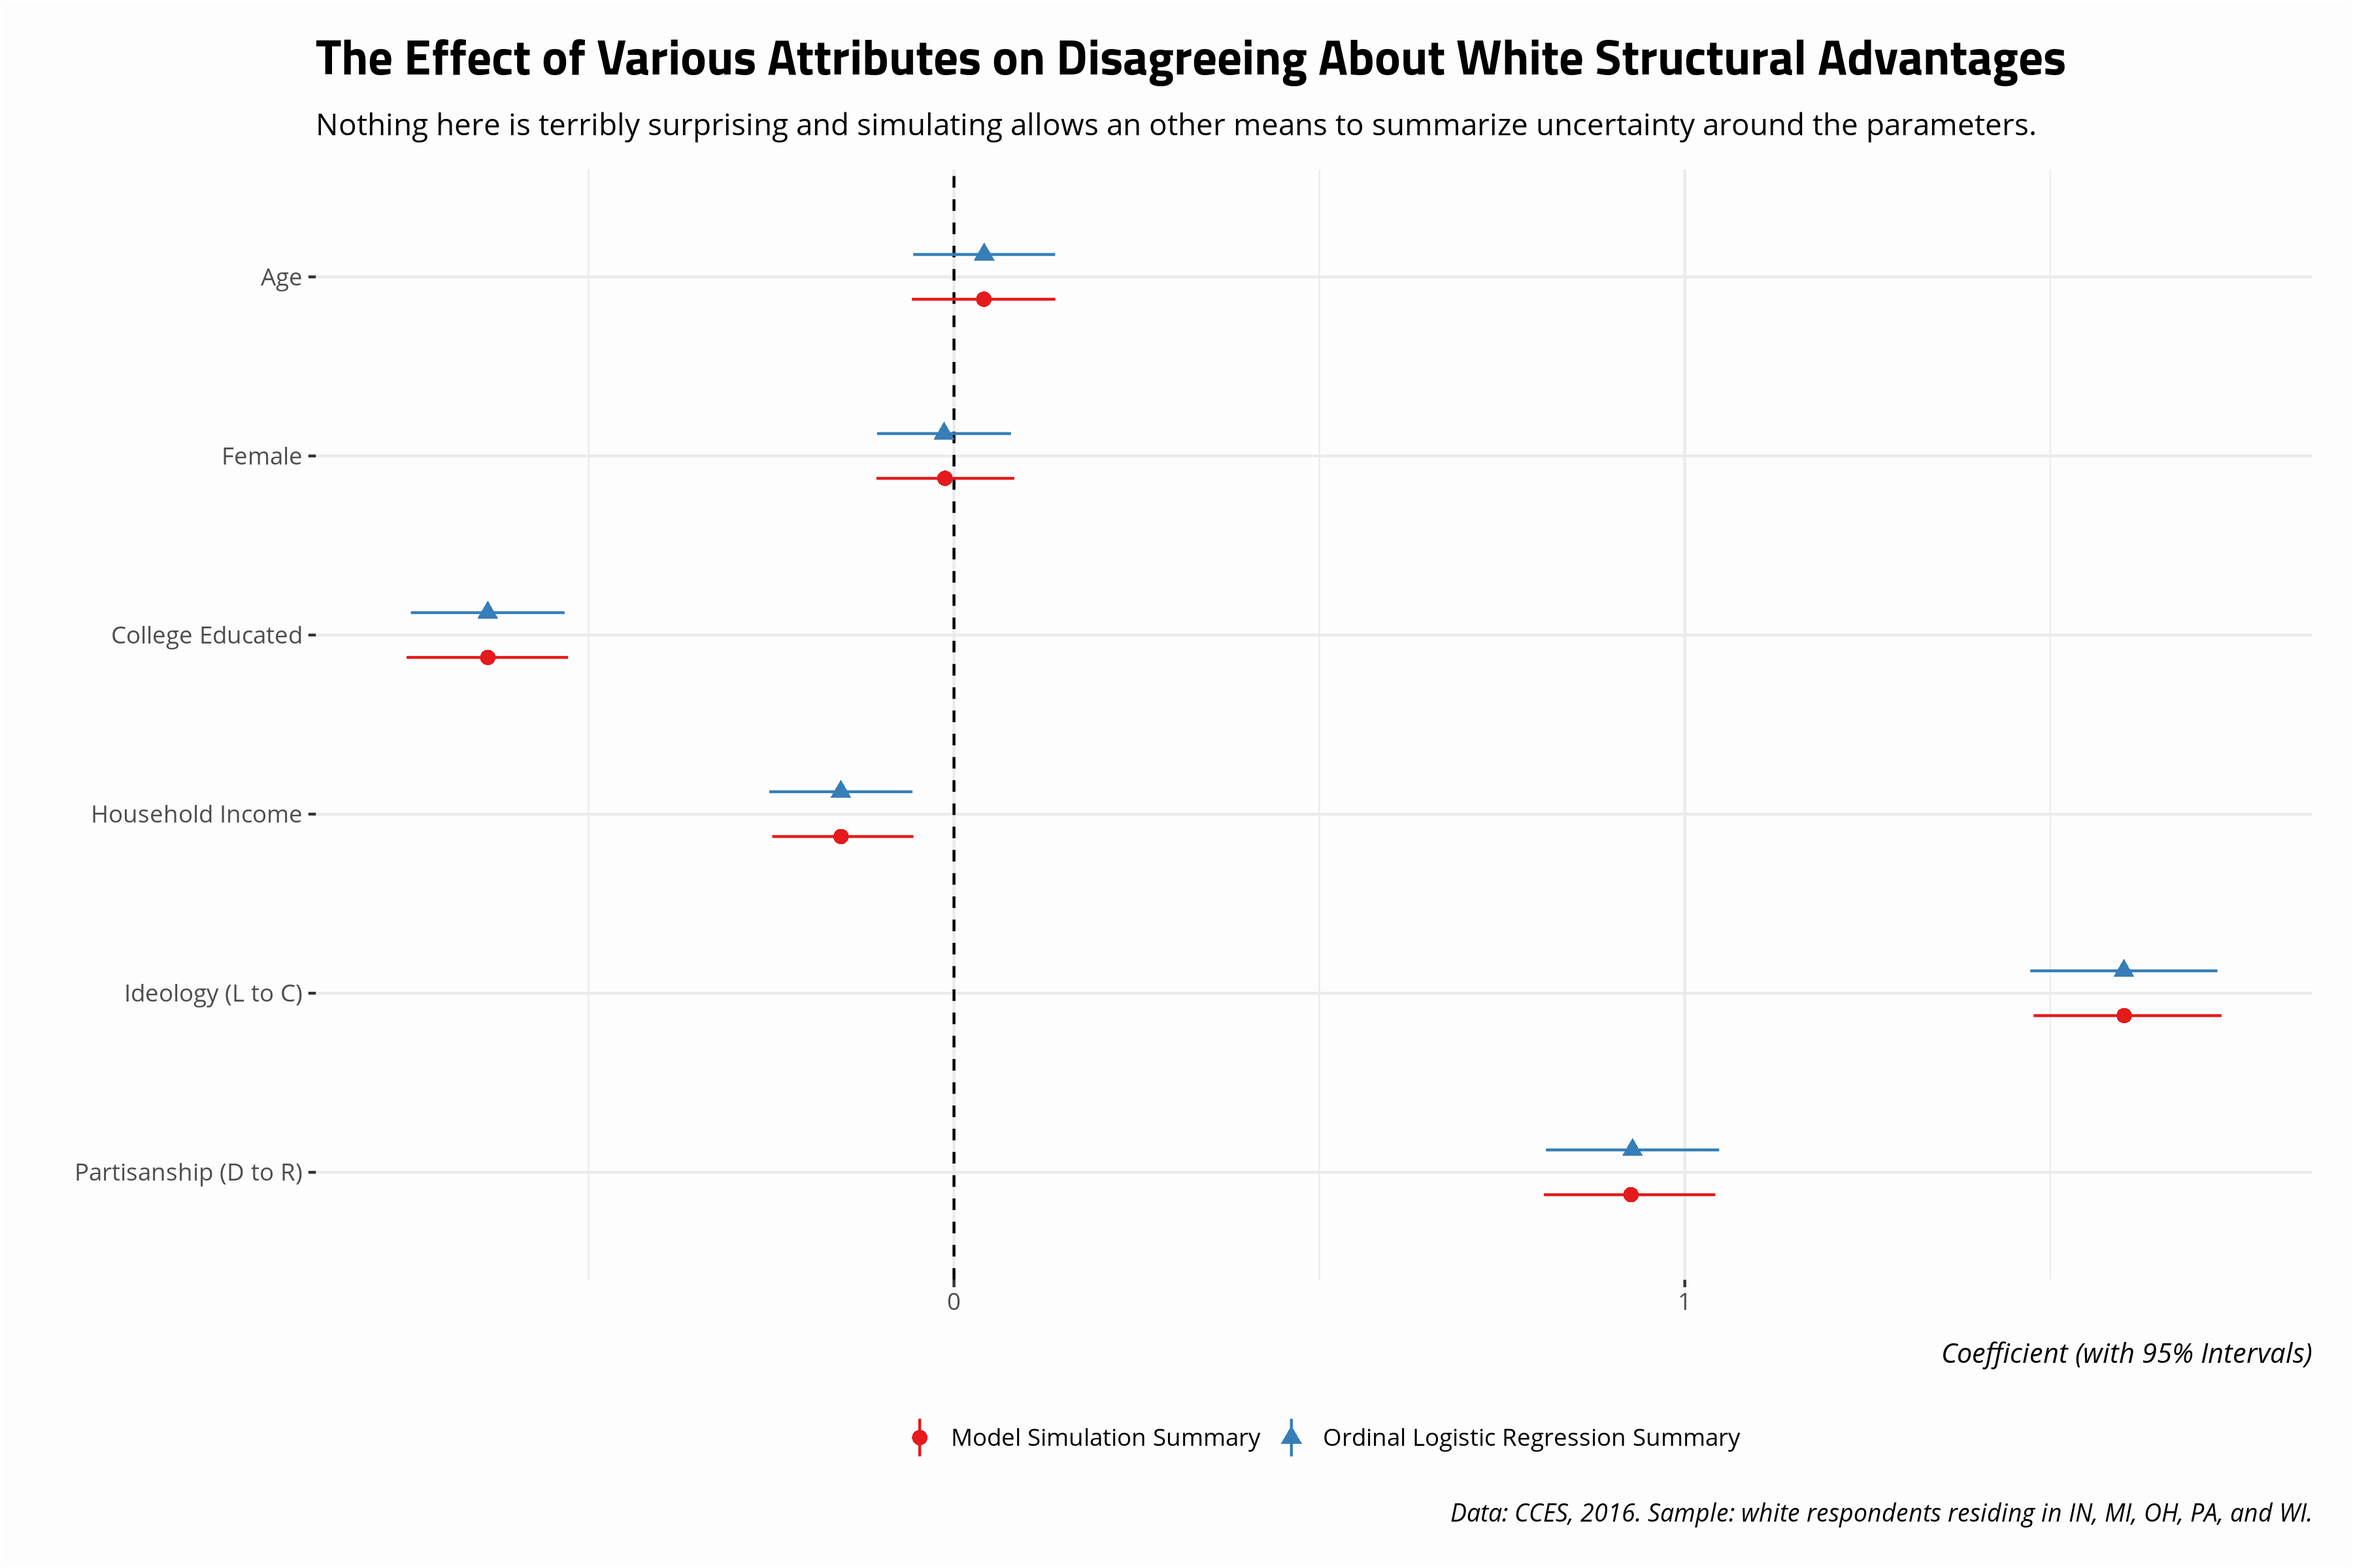
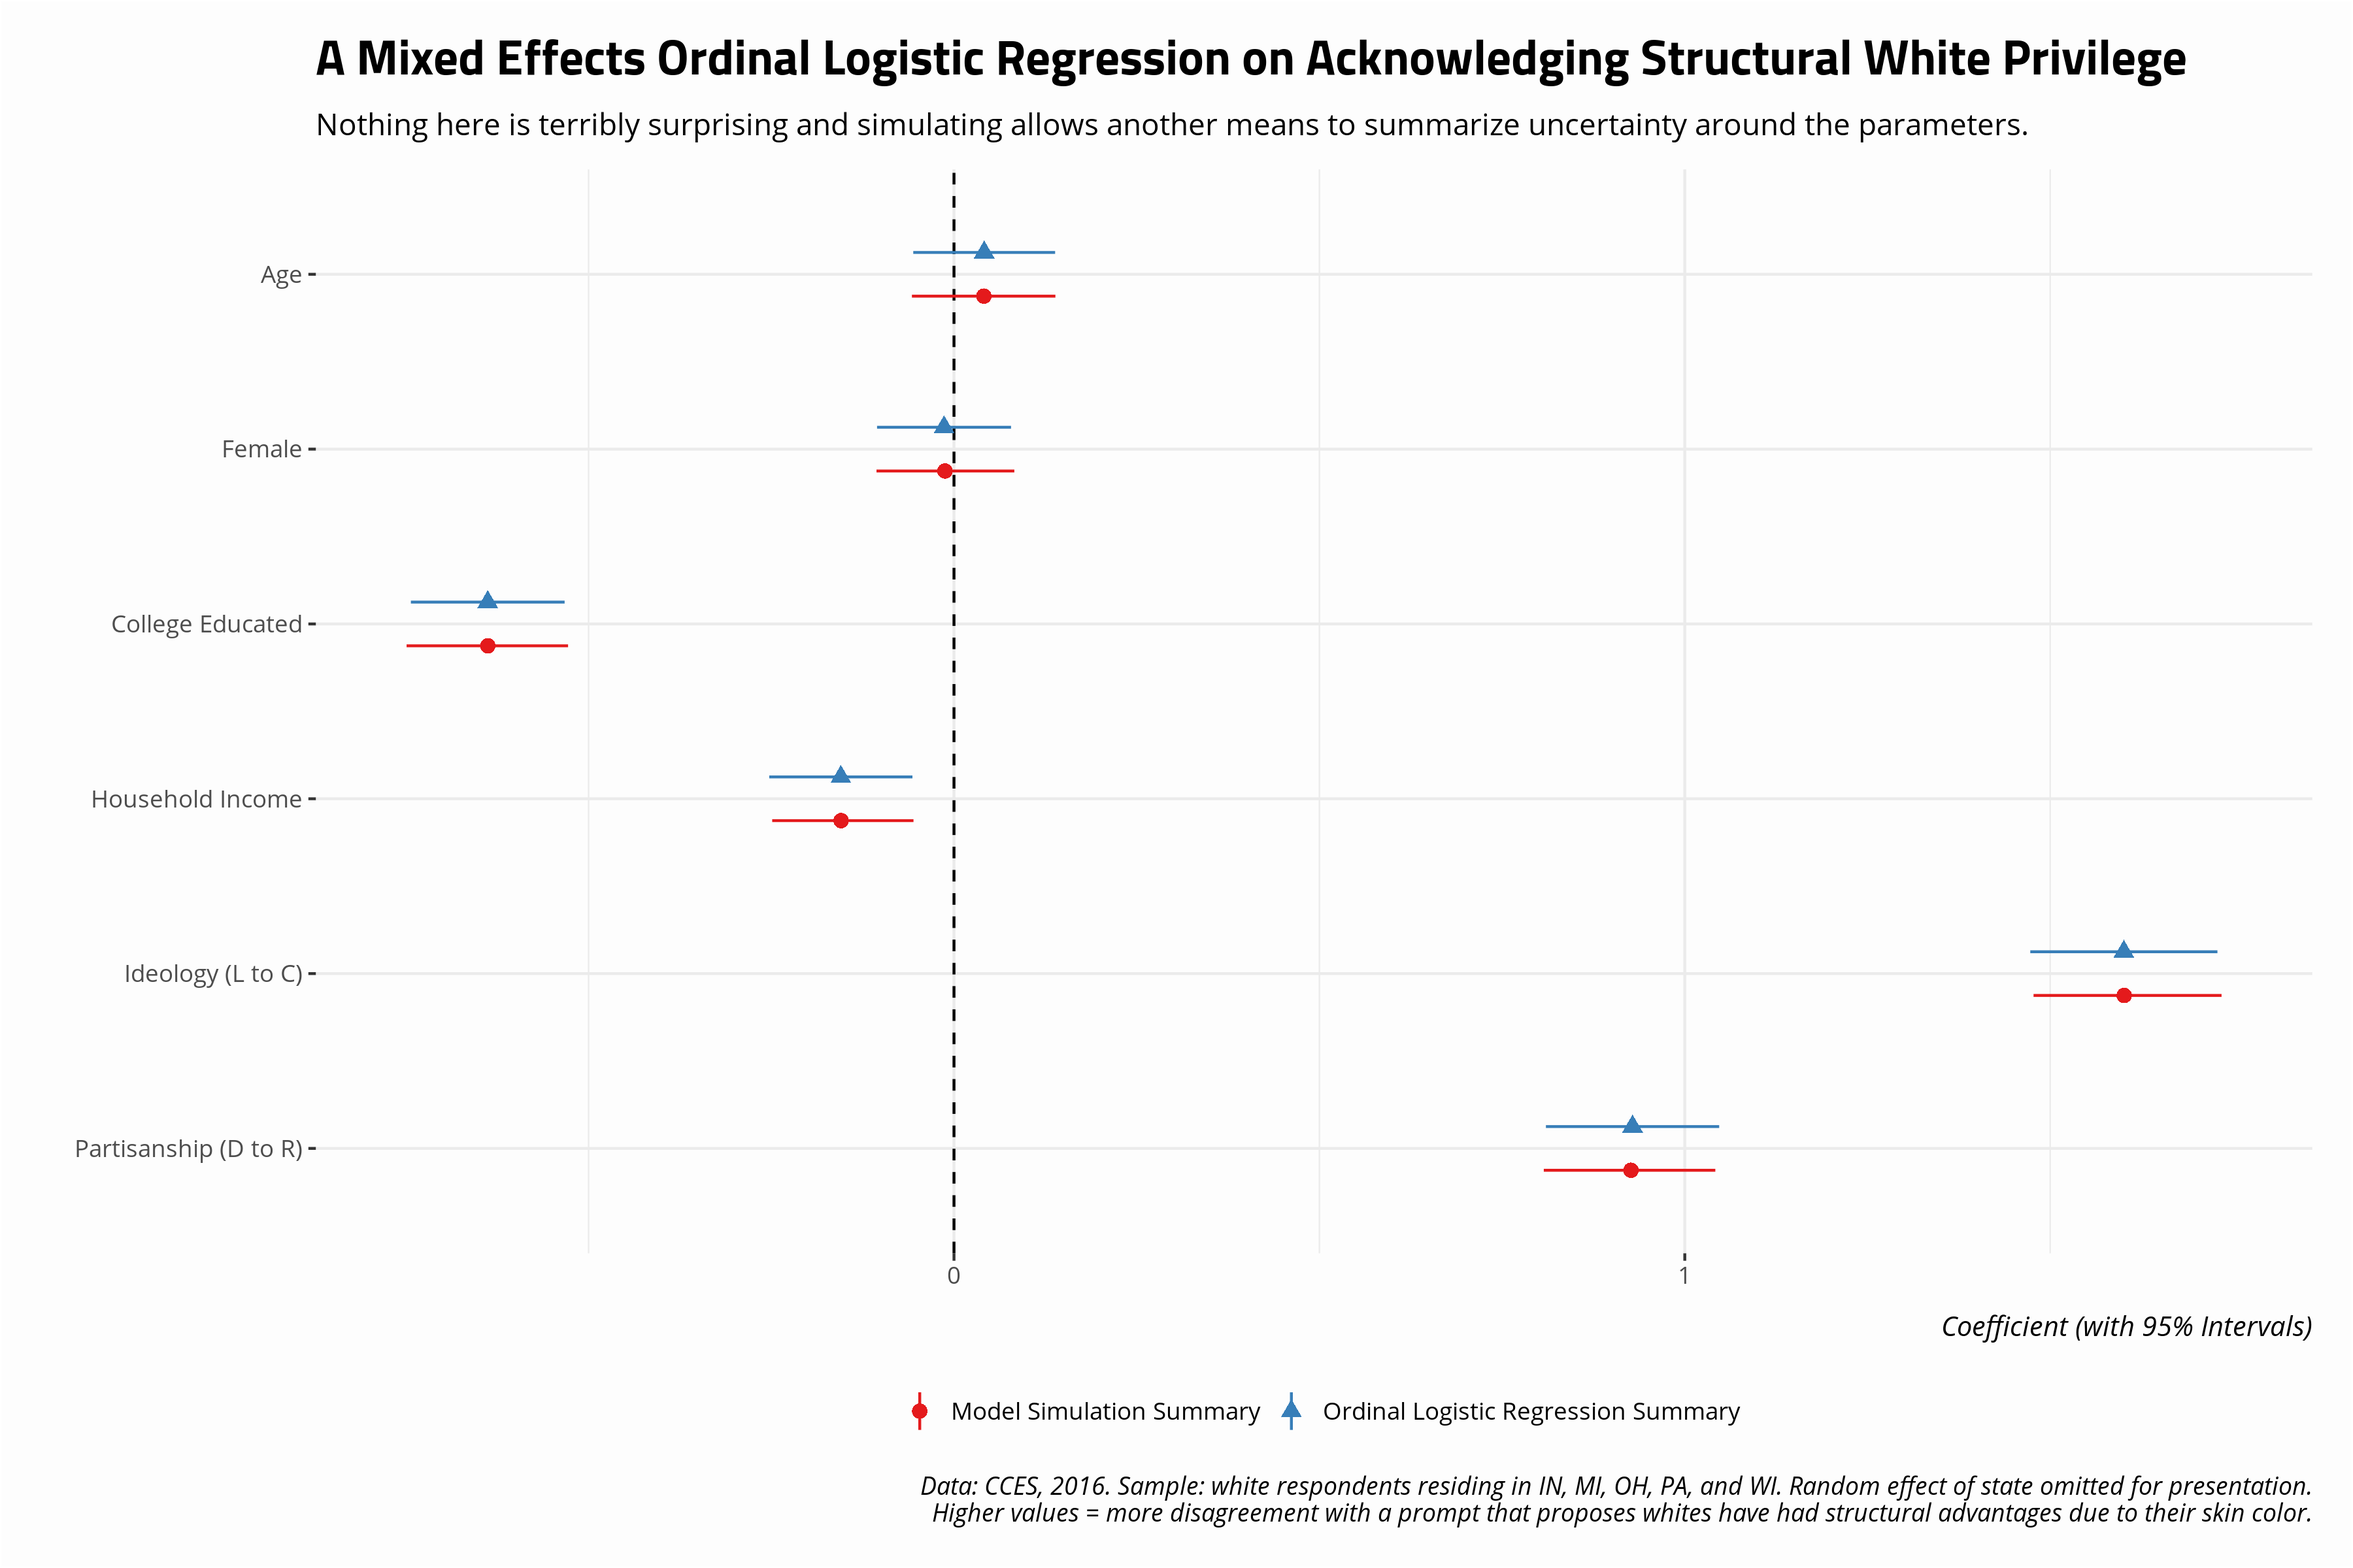
fix the graph

diff --git a/_posts/2020-04-13-summarizing-ordinal-models-with-simulation-multivariate-normal.md b/_posts/2020-04-13-summarizing-ordinal-models-with-simulation-multivariate-normal.md
@@ -223,11 +223,11 @@ simM1 %>% # we're going to name things to match up nicely with the above output
   scale_colour_brewer(palette = "Set1") +
   geom_hline(yintercept =  0, linetype="dashed") +
   geom_pointrange(position = position_dodge(width = .5)) + coord_flip()+
-  labs(title = "The Effect of Various Attributes on Disagreeing About White Structural Advantages",
+  labs(title = "A Mixed Effects Ordinal Logistic Regression on Acknowledging Structural White Privilege",
        x = "", y = "Coefficient (with 95% Intervals)",
-       subtitle = "Nothing here is terribly surprising and simulating allows an other means to summarize uncertainty around the parameters.",
+       subtitle = "Nothing here is terribly surprising and simulating allows another means to summarize uncertainty around the parameters.",
        shape = "", color="",
-       caption = "Data: CCES, 2016. Sample: white respondents residing in IN, MI, OH, PA, and WI.")
+       caption = "Data: CCES, 2016. Sample: white respondents residing in IN, MI, OH, PA, and WI. Random effect of state omitted for presentation.\nHigher values = more disagreement with a prompt that proposes whites have had structural advantages due to their skin color.")
 ```
 
 ![plot of chunk various-attributes-effect-acknowledging-white-advantage-cces16](/images/various-attributes-effect-acknowledging-white-advantage-cces16-1.png)
